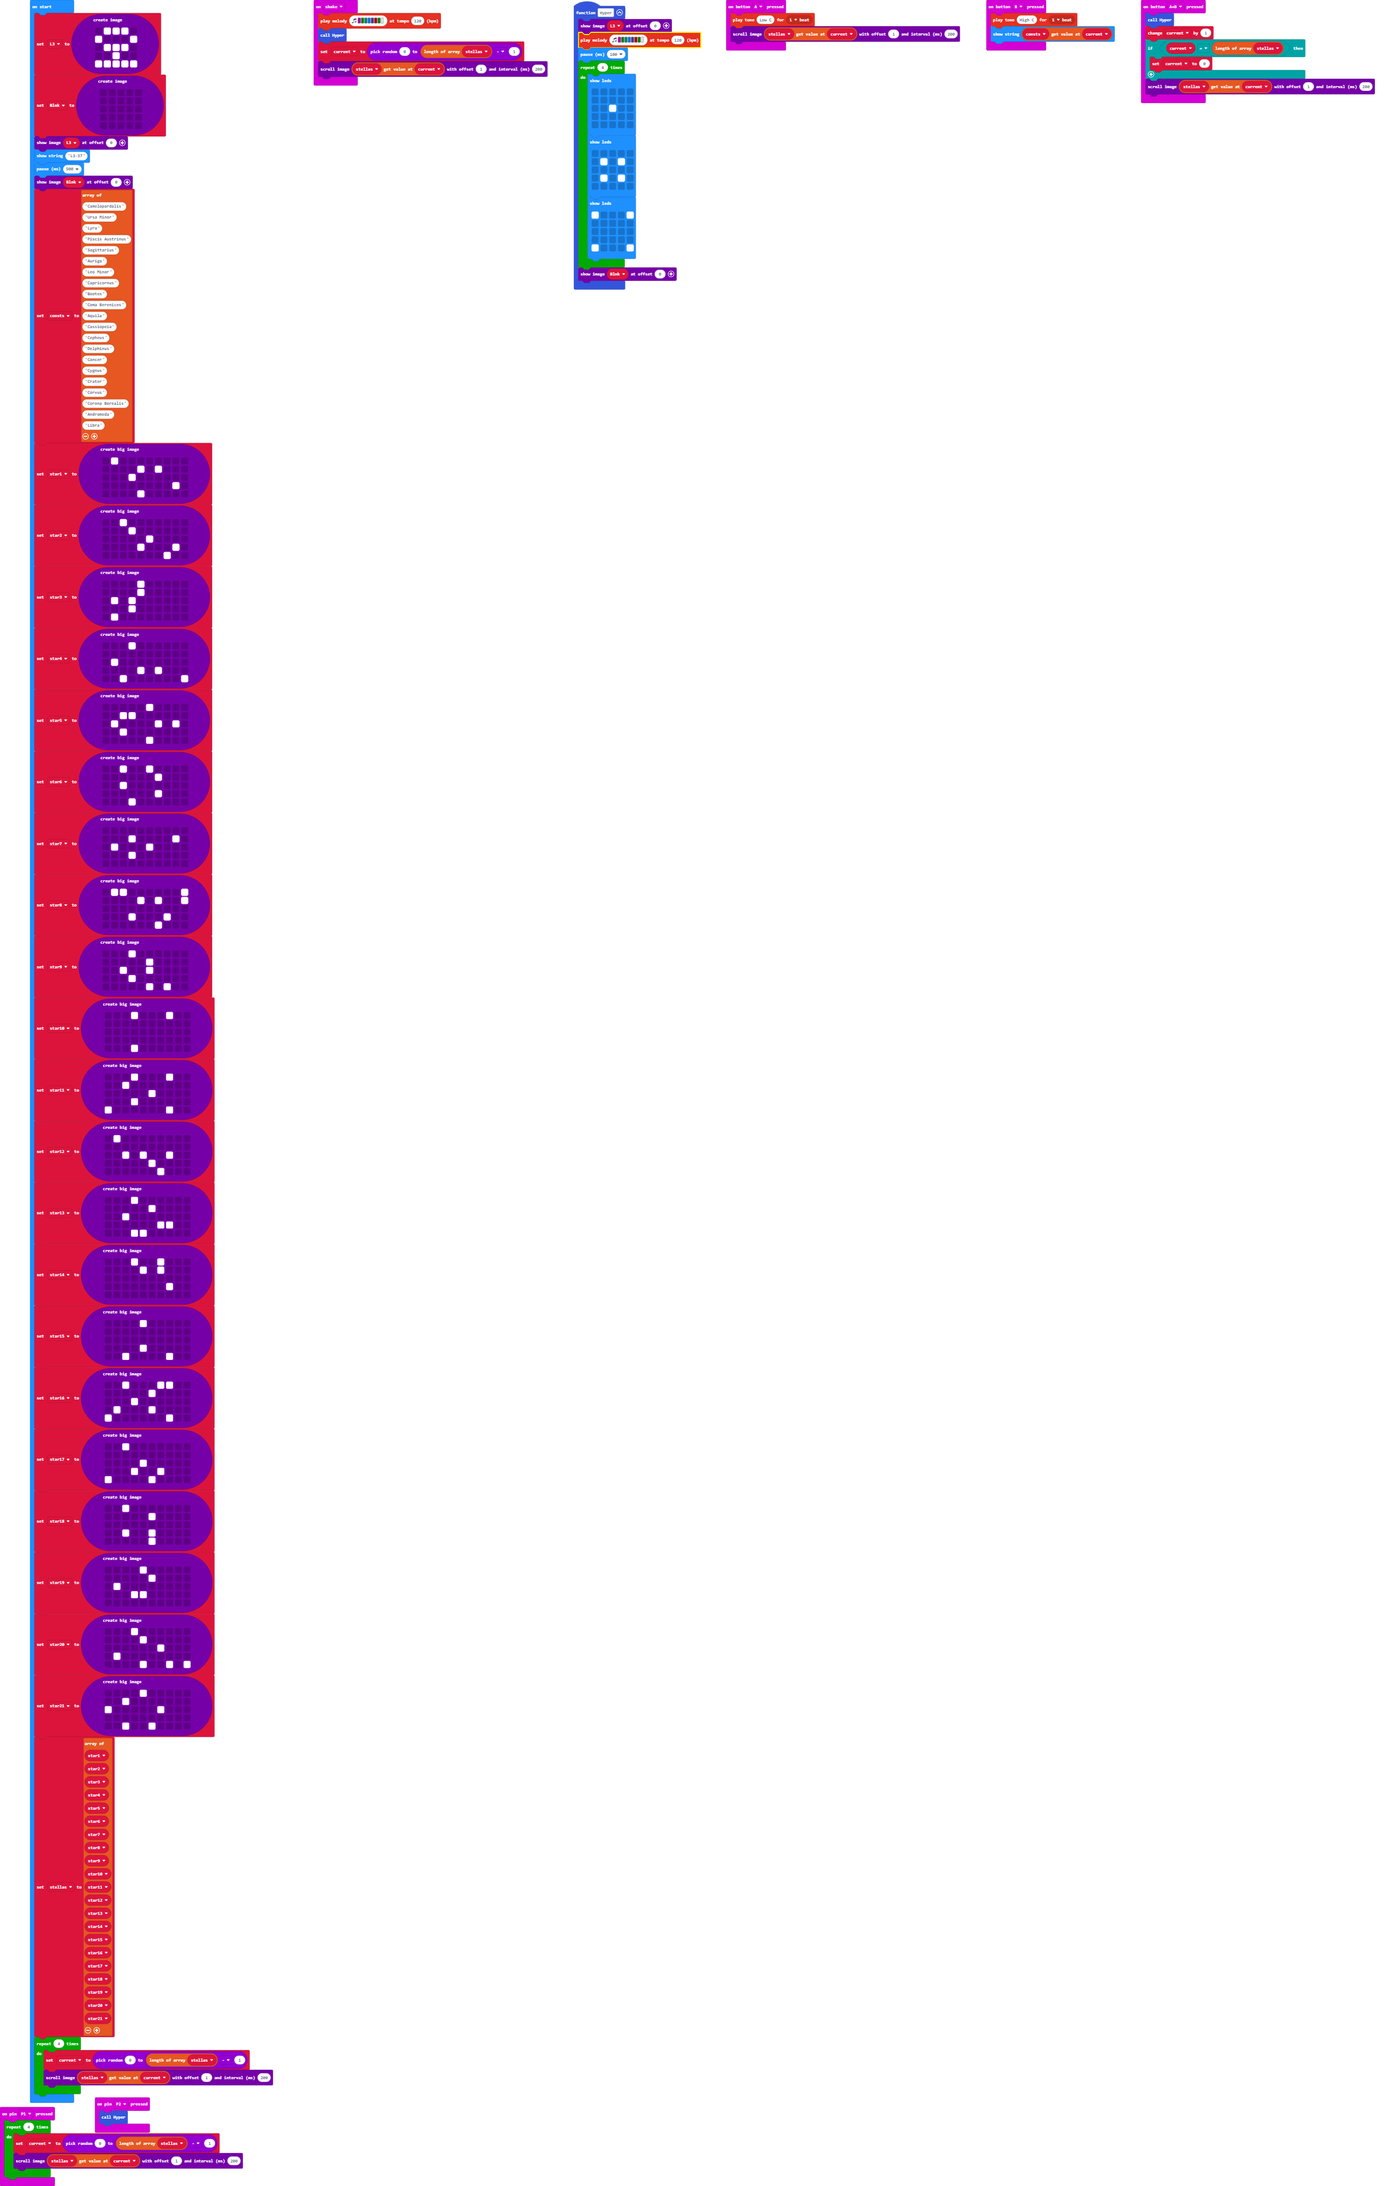
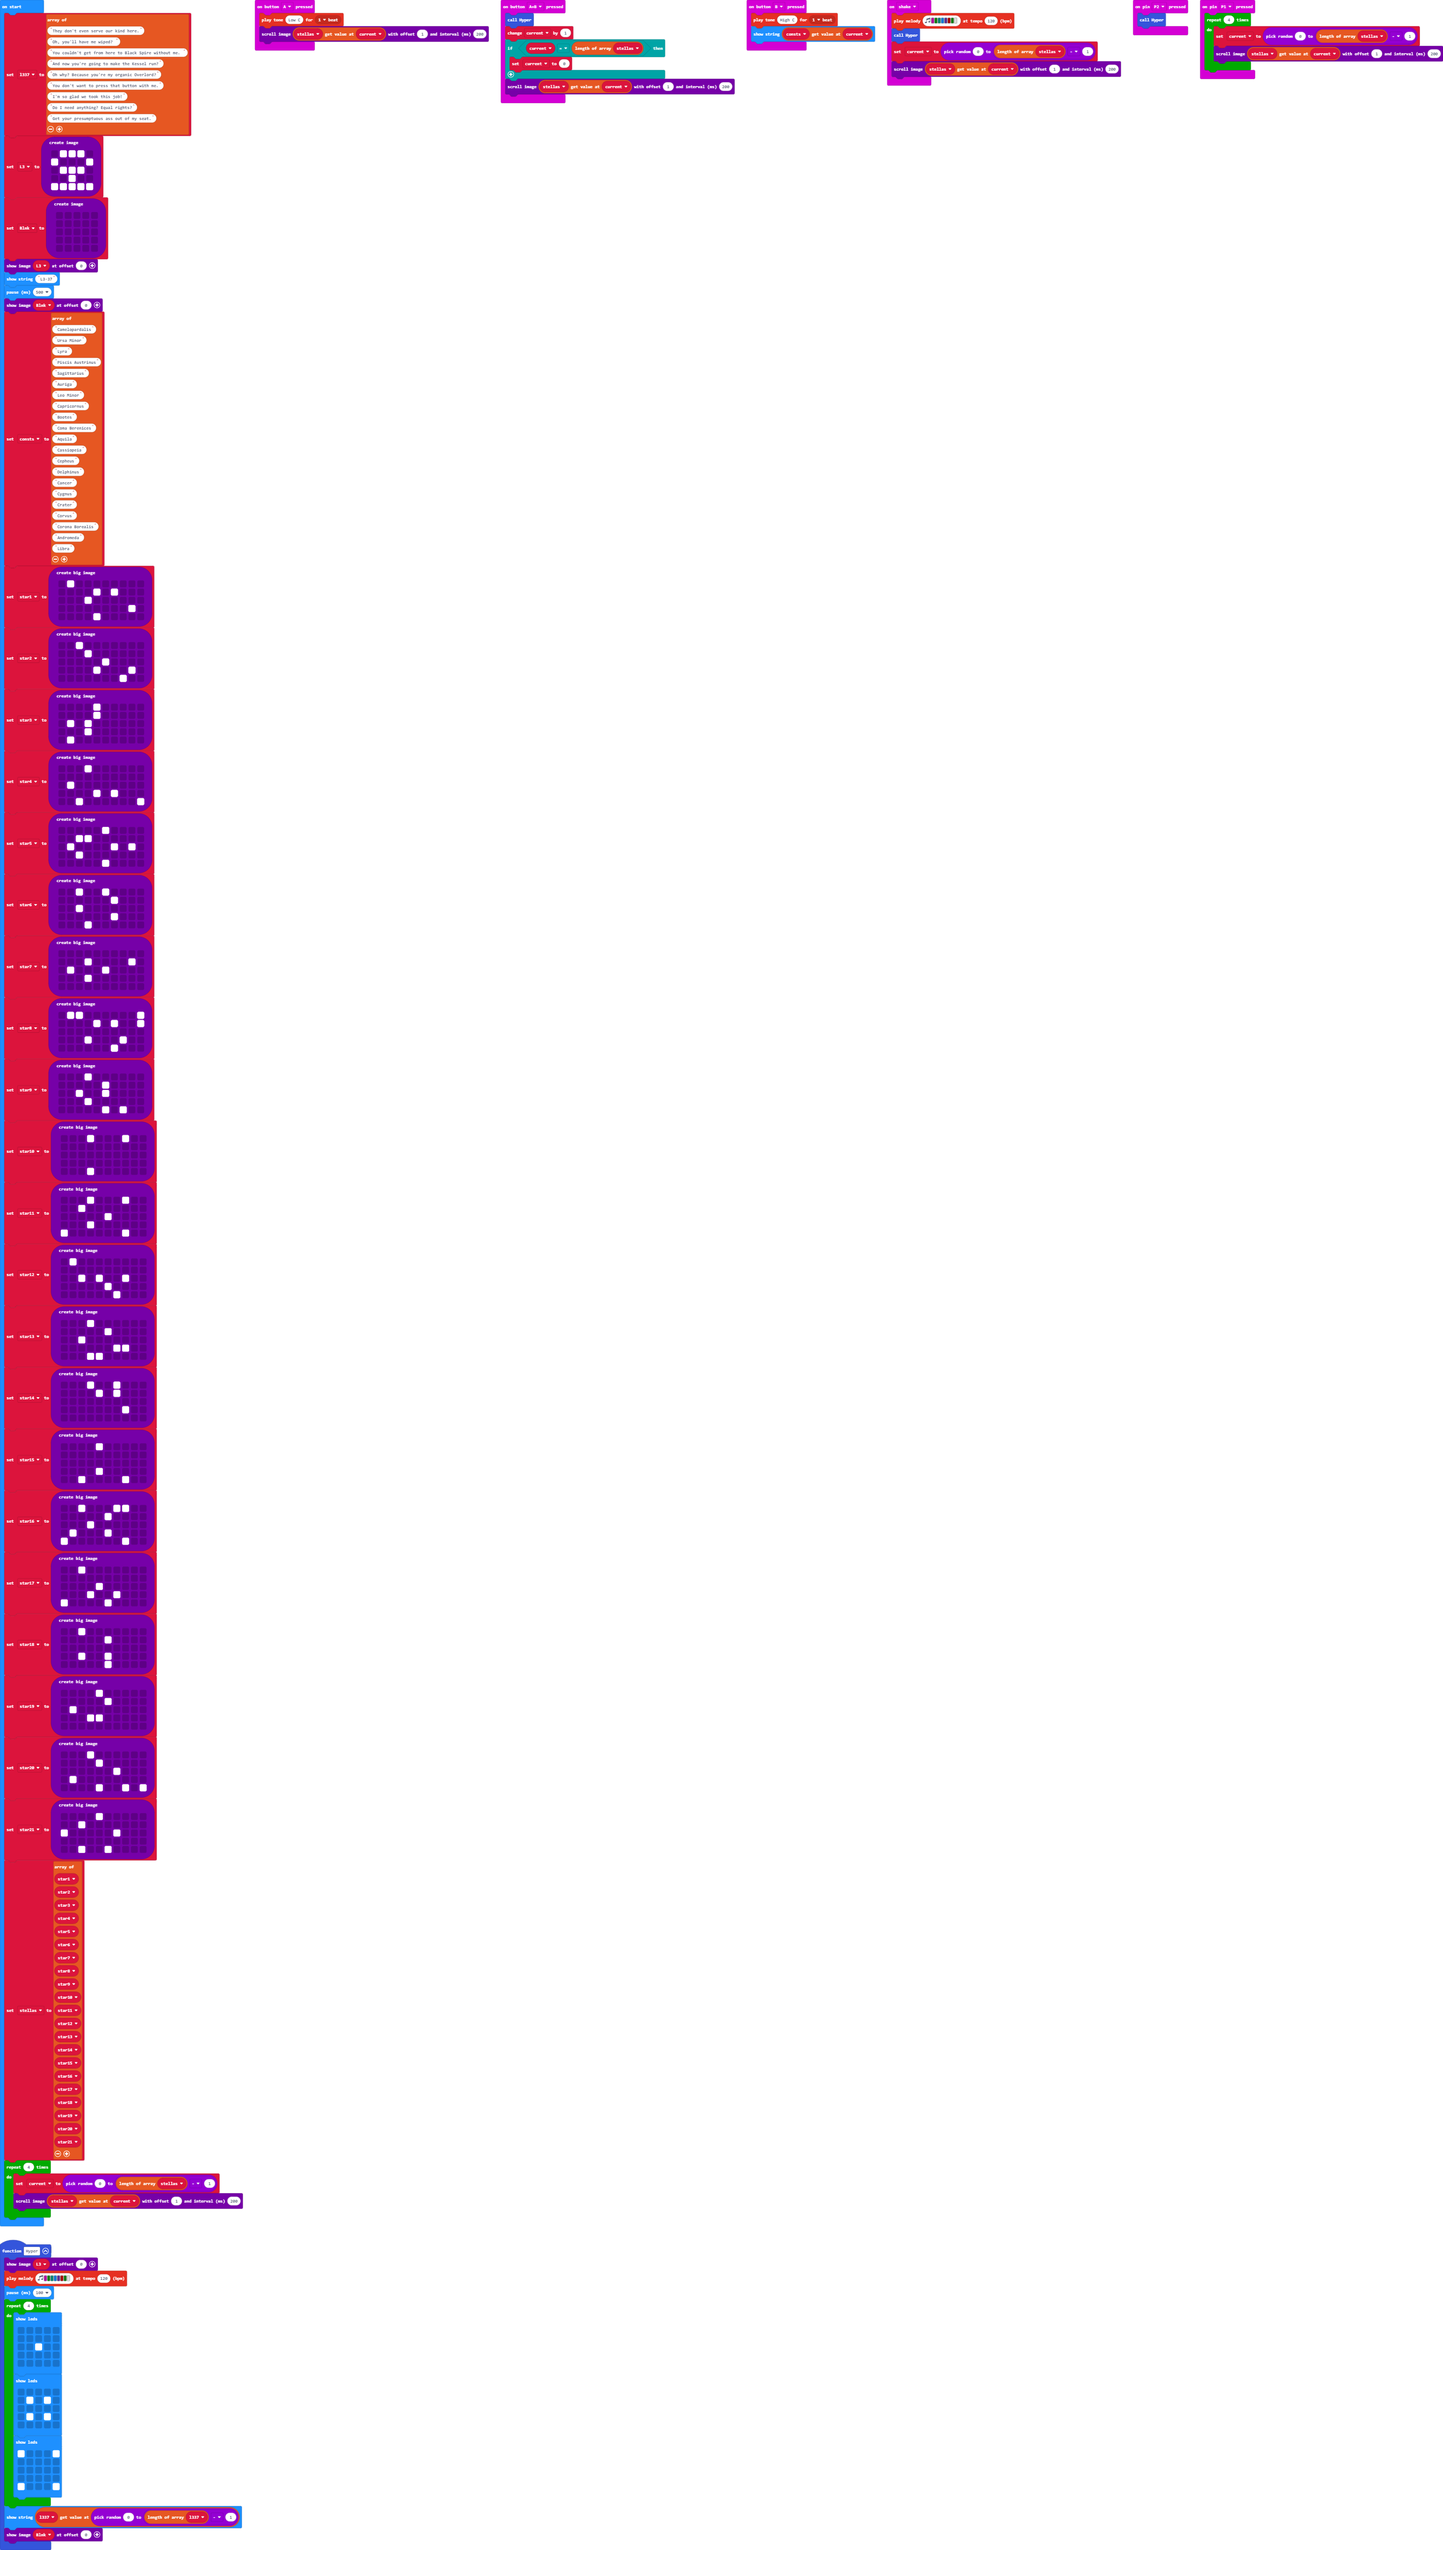
Update pxt.json, main.blocks, main.ts

Changed region(s): [[0.0, 0.0, 1.0, 1.0]]

diff --git a/main.ts b/main.ts
@@ -29,6 +29,7 @@ function Hyper () {
             # . . . #
             `)
     }
+    basic.showString("" + (l337[randint(0, l337.length - 1)]))
     Blnk.showImage(0)
 }
 input.onPinPressed(TouchPin.P2, function () {
@@ -63,6 +64,18 @@ let stellas: Image[] = []
 let consts: string[] = []
 let Blnk: Image = null
 let L3: Image = null
+let l337: string[] = []
+l337 = [
+"They don't even serve our kind here.",
+"Oh, you'll have me wiped? ",
+"You couldn't get from here to Black Spire without me. ",
+"And now you're going to make the Kessel run?",
+"Oh why? Because you're my organic Overlord?",
+"You don't want to press that button with me.",
+"I'm so glad we took this job!",
+"Do I need anything? Equal rights?",
+"Get your presumptuous ass out of my seat."
+]
 L3 = images.createImage(`
     . # # # .
     # . . . #
@@ -81,7 +94,29 @@ L3.showImage(0)
 basic.showString("L3-37")
 basic.pause(500)
 Blnk.showImage(0)
-consts = ["Camelopardalis", "Ursa Minor", "Lyra", "Piscis Austrinus", "Sagittarius", "Auriga", "Leo Minor", "Capricornus", "Bootes", "Coma Berenices", "Aquila", "Cassiopeia", "Cepheus", "Delphinus", "Cancer", "Cygnus", "Crater", "Corvus", "Corona Borealis", "Andromeda", "Libra"]
+consts = [
+"Camelopardalis",
+"Ursa Minor",
+"Lyra",
+"Piscis Austrinus",
+"Sagittarius",
+"Auriga",
+"Leo Minor",
+"Capricornus",
+"Bootes",
+"Coma Berenices",
+"Aquila",
+"Cassiopeia",
+"Cepheus",
+"Delphinus",
+"Cancer",
+"Cygnus",
+"Crater",
+"Corvus",
+"Corona Borealis",
+"Andromeda",
+"Libra"
+]
 let star1 = images.createBigImage(`
     . # . . . . . . . .
     . . . . # . # . . .
@@ -229,7 +264,29 @@ let star21 = images.createBigImage(`
     . . . . . . . . . .
     . . # . . # . . . .
     `)
-stellas = [star1, star2, star3, star4, star5, star6, star7, star8, star9, star10, star11, star12, star13, star14, star15, star16, star17, star18, star19, star20, star21]
+stellas = [
+star1,
+star2,
+star3,
+star4,
+star5,
+star6,
+star7,
+star8,
+star9,
+star10,
+star11,
+star12,
+star13,
+star14,
+star15,
+star16,
+star17,
+star18,
+star19,
+star20,
+star21
+]
 for (let index = 0; index < 4; index++) {
     current = randint(0, stellas.length - 1)
     stellas[current].scrollImage(1, 200)
